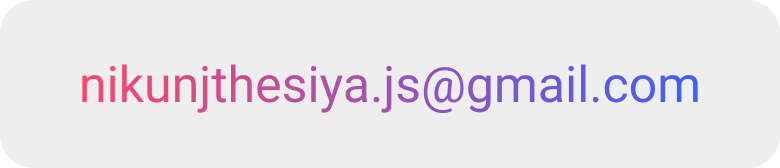
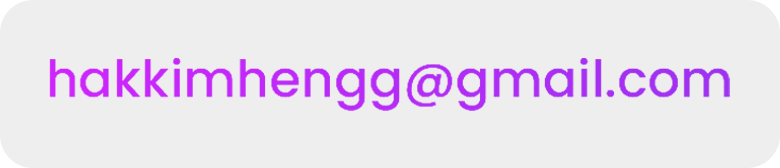
update

Changed region(s): [[0.0615, 0.3274, 0.9538, 0.6845]]

diff --git a/README.md b/README.md
@@ -26,12 +26,12 @@
 
 ## Mail Me
 
-<p align="left"><img src="https://github.com/hakkimheng/hakkimheng/blob/main/Images/gmail.png" height=50> &nbsp;<a href="mailto:nikunjthesiya.js@gmail.com" align="left"><img src="https://github.com/hakkimheng/hakkimheng/blob/main/Images/mail.png" height=50></a></p>
+<p align="left"><img src="https://github.com/hakkimheng/hakkimheng/blob/main/Images/gmail.png" height=50> &nbsp;<a href="mailto:hakkimhengg@gmail.com" align="left"><img src="https://github.com/hakkimheng/hakkimheng/blob/main/Images/mail.png" height=50></a></p>
 
 ## Connect with me
 
 <p>
-  <a href="https://twitter.com/NikunjThesiya2"><img src="https://github.com/hakkimheng/hakkimheng/blob/main/Images/twitterlogo.png" height=44></a> &nbsp; &nbsp;<a href="https://www.linkedin.com/in/nikunjthesiya/"><img src="https://github.com/hakkimheng/hakkimheng/blob/main/Images/linkedinlogo.png" height=44></a> &nbsp; &nbsp;<a href="https://www.instagram.com/ll_nikunj.thesiya_ll/"><img src="https://github.com/hakkimheng/hakkimheng/blob/main/Images/instagramlogo.png" height=44></a> &nbsp; &nbsp;<a href="https://open.spotify.com/user/31crz5k4dzevnbmicr5lcng6pdne?si=1edb9d19cd7e4461"><img src="https://github.com/hakkimheng/hakkimheng/blob/main/Images/spotifylogo.png" height=44></a>
+  <a href="https://twitter.com/henggofficial"><img src="https://github.com/hakkimheng/hakkimheng/blob/main/Images/twitterlogo.png" height=44></a> &nbsp; &nbsp;<a href="https://www.linkedin.com/in/hak-kimheng-0ba574287/"><img src="https://github.com/hakkimheng/hakkimheng/blob/main/Images/linkedinlogo.png" height=44></a> &nbsp; &nbsp;<a href="https://www.instagram.com/__henqqq__/"><img src="https://github.com/hakkimheng/hakkimheng/blob/main/Images/instagramlogo.png" height=44></a> &nbsp; &nbsp;<a href="https://open.spotify.com/user/31crz5k4dzevnbmicr5lcng6pdne?si=1edb9d19cd7e4461"><img src="https://github.com/hakkimheng/hakkimheng/blob/main/Images/spotifylogo.png" height=44></a>
 
 </p>
 
